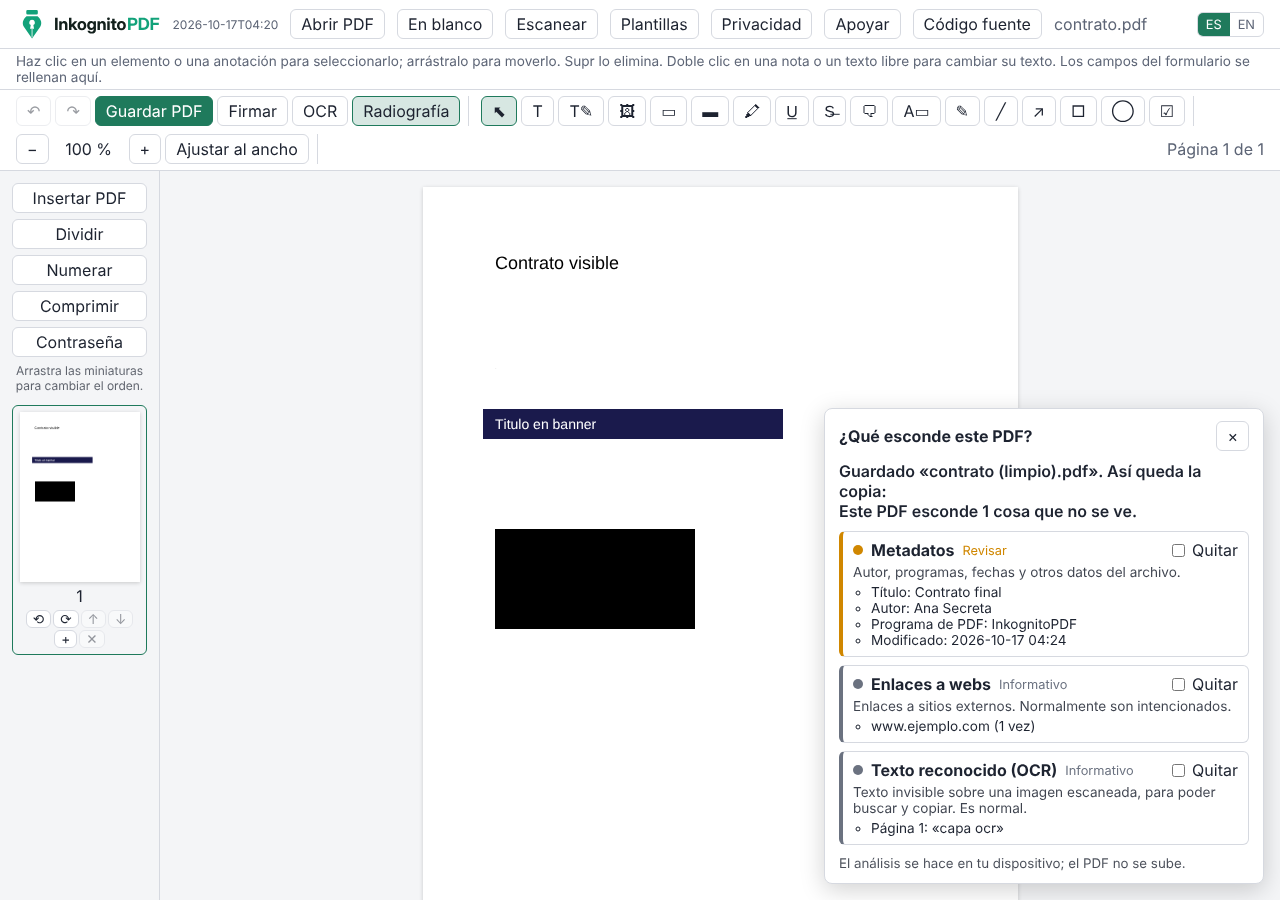
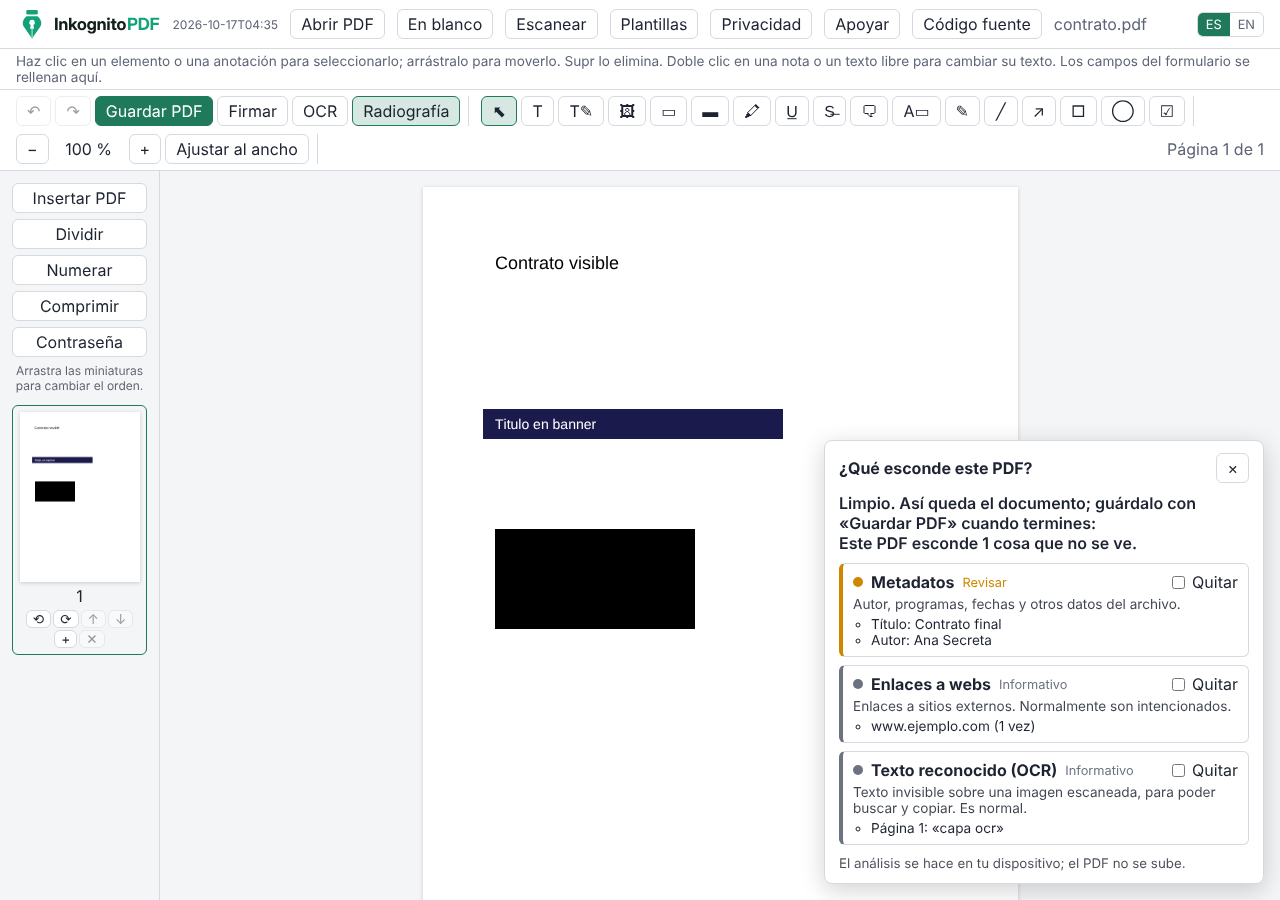
X-ray: "Clean" cleans the open document; it is saved afterwards
Before, "Clean and save" downloaded "X (clean).pdf" right away. Now
"Clean" replaces the open document with its clean version, under the
edits (like "Insert PDF"), and the report shows how it ends up. It is
saved afterwards with "Save PDF". Without a source file (blank document)
cleaning is not offered.

Changed region(s): [[0.6562, 0.4667, 0.9688, 0.7156], [0.5, 0.0, 0.5312, 0.0311]]

diff --git a/src/xray/XrayPanel.tsx b/src/xray/XrayPanel.tsx
@@ -1,5 +1,5 @@
 // Spec 015: what the PDF hides, as a traffic light, and a clean copy of it.
-import { useEffect, useState } from "react";
+import { useEffect, useRef, useState } from "react";
 import { useT, type MessageKey } from "../i18n";
 import type {
   PrivacyDetail,
@@ -12,10 +12,11 @@ import { formatSize } from "../protect/CompressPanel";
 interface XrayPanelProps {
   /** Analyzes the opened file. */
   scan: () => Promise<PrivacyReport>;
-  /** Saves a clean copy; returns its name and its report. */
-  clean: (
-    kinds: Set<PrivacyKind>,
-  ) => Promise<{ name: string; report: PrivacyReport }>;
+  /**
+   * Cleans the open document (not saved yet) and returns its new report;
+   * null when there is no file to clean (a document started from scratch).
+   */
+  clean: ((kinds: Set<PrivacyKind>) => Promise<PrivacyReport>) | null;
   /** Downloads the earlier version that ends at `end`. */
   downloadVersion: (end: number, n: number) => void;
   onClose: () => void;
@@ -40,7 +41,7 @@ const OFF_BY_DEFAULT = new Set<PrivacyKind>(["links", "ocrText"]);
 type State =
   | { step: "scanning" }
   | { step: "failed" }
-  | { step: "report"; report: PrivacyReport; cleaned?: string }
+  | { step: "report"; report: PrivacyReport; cleaned?: boolean }
   | { step: "cleaning"; report: PrivacyReport };
 
 export function XrayPanel({
@@ -53,9 +54,12 @@ export function XrayPanel({
   const [state, setState] = useState<State>({ step: "scanning" });
   const [checked, setChecked] = useState<Set<PrivacyKind>>(new Set());
 
+  // The opened document is analyzed once; after cleaning, the report shown is
+  // the one of the clean document.
+  const scanOnce = useRef(scan);
   useEffect(() => {
     let live = true;
-    scan().then(
+    scanOnce.current().then(
       (report) => {
         if (!live) return;
         setState({ step: "report", report });
@@ -72,7 +76,7 @@ export function XrayPanel({
     return () => {
       live = false;
     };
-  }, [scan]);
+  }, []);
 
   const detailText = (kind: PrivacyKind, d: PrivacyDetail): string => {
     const page = d.page ? `${t("xray.page", d.page)}: ` : "";
@@ -133,10 +137,11 @@ export function XrayPanel({
     });
 
   const doClean = async (report: PrivacyReport) => {
+    if (!clean) return;
     setState({ step: "cleaning", report });
     try {
-      const result = await clean(checked);
-      setState({ step: "report", report: result.report, cleaned: result.name });
+      const cleanReport = await clean(checked);
+      setState({ step: "report", report: cleanReport, cleaned: true });
       setChecked(new Set());
     } catch {
       setState({ step: "failed" });
@@ -155,7 +160,7 @@ export function XrayPanel({
         <span className="xray-level">
           {t(`xray.level.${f.level}` as MessageKey)}
         </span>
-        {CLEANABLE.has(f.kind) && (
+        {clean && CLEANABLE.has(f.kind) && (
           <label className="toolbar-check">
             <input
               type="checkbox"
@@ -216,7 +221,7 @@ export function XrayPanel({
         <p role="status" className="xray-summary">
           {state.step === "report" && state.cleaned && (
             <>
-              {t("xray.cleaned", state.cleaned)}
+              {t("xray.cleaned")}
               <br />
             </>
           )}
@@ -232,7 +237,7 @@ export function XrayPanel({
           </ul>
         )}
         <small className="protect-note">{t("xray.local")}</small>
-        {!(state.step === "report" && state.cleaned) && canClean && (
+        {!(state.step === "report" && state.cleaned) && clean && canClean && (
           <button
             type="button"
             className="primary"

diff --git a/e2e/xray.spec.ts b/e2e/xray.spec.ts
@@ -7,7 +7,7 @@ import { join } from "node:path";
 import { PDFDocument } from "pdf-lib";
 import { scanPrivacy } from "../src/engine/privacy";
 import { leaky } from "../tests/privacyFixture";
-import { firstPage, fixture } from "./helpers";
+import { firstPage, fixture, saveAndRead } from "./helpers";
 
 const DIR = "docs/screenshots/xray";
 
@@ -39,7 +39,9 @@ async function download(page: Page, click: () => Promise<void>) {
   };
 }
 
-test("the report, the earlier version and the clean copy", async ({ page }) => {
+test("the report, the earlier version, cleaning and then saving", async ({
+  page,
+}) => {
   await open(page, file);
   await page.getByRole("button", { name: "Radiografía" }).click();
   await expect(panel(page).getByRole("status")).toHaveText(
@@ -79,21 +81,31 @@ test("the report, the earlier version and the clean copy", async ({ page }) => {
   await findingOf(page, "metadata")
     .getByRole("checkbox", { name: "Quitar" })
     .uncheck();
-  const clean = await download(page, () =>
-    panel(page).getByRole("button", { name: "Limpiar y guardar" }).click(),
-  );
-  expect(clean.name).toBe("contrato (limpio).pdf");
+  // Cleaning changes the open document and downloads nothing.
+  let downloads = 0;
+  page.on("download", () => downloads++);
+  await panel(page)
+    .getByRole("button", { name: "Limpiar", exact: true })
+    .click();
   await expect(panel(page).getByRole("status")).toContainText(
-    "Guardado «contrato (limpio).pdf». Así queda la copia:",
+    "Limpio. Así queda el documento; guárdalo con «Guardar PDF» cuando termines:",
   );
-  const report = await scanPrivacy(clean.bytes);
+  await expect(panel(page).locator(".xray-finding")).toHaveCount(3);
+  expect(downloads).toBe(0);
+  await page.screenshot({ path: `${DIR}/copia-limpia-escritorio.png` });
+
+  // Saving afterwards keeps it clean.
+  await panel(page).getByRole("button", { name: "Cerrar radiografía" }).click();
+  const saved = await saveAndRead(page);
+  expect(saved.name).toBe("contrato (editado).pdf");
+  const report = await scanPrivacy(saved.bytes);
   expect(report.findings.map((f) => f.kind)).toEqual([
     "metadata",
     "links",
     "ocrText",
   ]);
-  await expect(panel(page).locator(".xray-finding")).toHaveCount(3);
-  await page.screenshot({ path: `${DIR}/copia-limpia-escritorio.png` });
+  const doc = await PDFDocument.load(saved.bytes, { updateMetadata: false });
+  expect(doc.getAuthor()).toBe("Ana Secreta");
 });
 
 test("a plain document has nothing hidden", async ({ page }) => {

diff --git a/src/editor/EditorView.tsx b/src/editor/EditorView.tsx
@@ -900,15 +900,15 @@ export function EditorView({
     });
     return report;
   }, [file, state]);
+  // Cleaning changes the open document, under the edits (like inserting a
+  // PDF, spec 013); saving comes later, with «Guardar PDF».
   const cleanXray = async (kinds: Set<PrivacyKind>) => {
-    const [{ cleanPrivacy, scanPrivacy }, { buildPdf, downloadPdf }] =
-      await Promise.all([import("../engine/privacy"), import("./save")]);
-    const { bytes } = await buildPdf(file, state);
-    const clean = await cleanPrivacy(bytes, kinds);
-    const name = `${baseName} (${t("xray.cleanSuffix")}).pdf`;
-    downloadPdf(await protect(clean), name);
+    if (!file || !onReplaceBase) throw new Error("No file to clean"); // i18n-ignore: never shown, the button needs a file
+    const { cleanPrivacy, scanPrivacy } = await import("../engine/privacy");
+    const clean = await cleanPrivacy(file.copyBytes(), kinds);
+    await onReplaceBase(createPdfFile(file.name, clean));
     track("privacy_clean");
-    return { name, report: await scanPrivacy(clean) };
+    return scanPrivacy(clean);
   };
   const downloadVersion = async (end: number, n: number) => {
     if (!file) return;
@@ -2215,7 +2215,7 @@ export function EditorView({
       {xrayOpen && (
         <XrayPanel
           scan={scanXray}
-          clean={cleanXray}
+          clean={file && onReplaceBase ? cleanXray : null}
           downloadVersion={(end, n) => void downloadVersion(end, n)}
           onClose={() => setXrayOpen(false)}
         />

diff --git a/src/i18n/en/xray.ts b/src/i18n/en/xray.ts
@@ -95,9 +95,9 @@ export const xray: typeof es = {
   "xray.times": (n) => (n === 1 ? "once" : `${n} times`),
   "xray.comments": (n) => (n === 1 ? "1 comment" : `${n} comments`),
   "xray.noName": "(no name)",
-  "xray.clean": "Clean and save",
+  "xray.clean": "Clean",
   "xray.cleaning": "Cleaning…",
   "xray.nothingChecked": "Check at least one thing to remove.",
-  "xray.cleaned": (file) => `Saved “${file}”. This is the clean copy:`,
-  "xray.cleanSuffix": "clean",
+  "xray.cleaned":
+    "Cleaned. This is the document now; save it with “Save PDF” when you are done:",
 };

diff --git a/src/i18n/es/xray.ts b/src/i18n/es/xray.ts
@@ -95,9 +95,9 @@ export const xray = {
   "xray.comments": (n: number) =>
     n === 1 ? "1 comentario" : `${n} comentarios`,
   "xray.noName": "(sin nombre)",
-  "xray.clean": "Limpiar y guardar",
+  "xray.clean": "Limpiar",
   "xray.cleaning": "Limpiando…",
   "xray.nothingChecked": "Marca al menos una cosa para quitar.",
-  "xray.cleaned": (file: string) => `Guardado «${file}». Así queda la copia:`,
-  "xray.cleanSuffix": "limpio",
+  "xray.cleaned":
+    "Limpio. Así queda el documento; guárdalo con «Guardar PDF» cuando termines:",
 };
